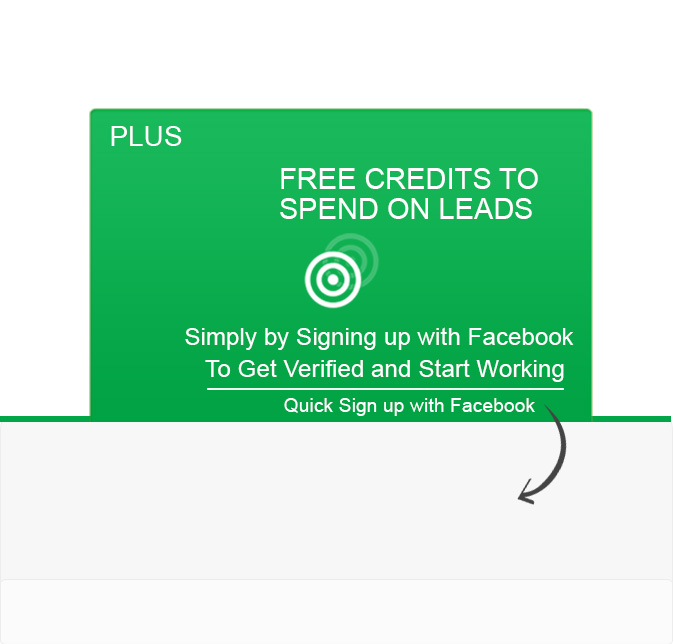
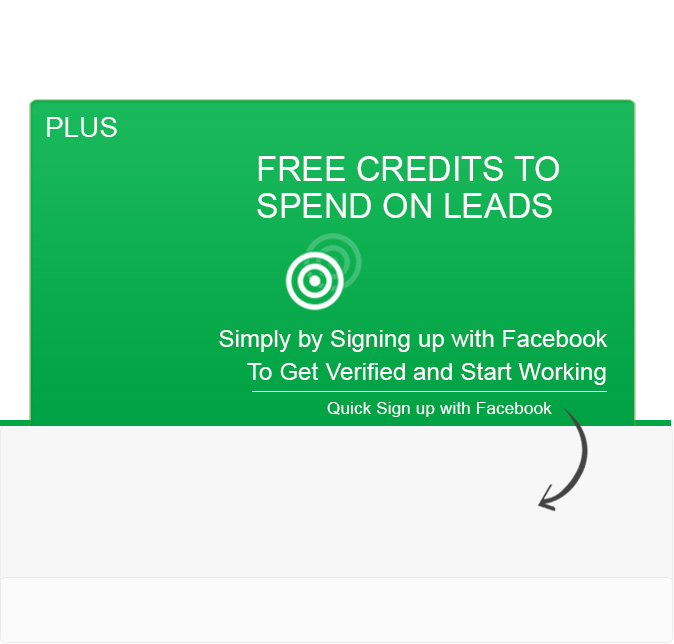
step 1 background image

Changed region(s): [[0.0, 0.1553, 0.997, 0.8075]]

diff --git a/css/signup.css b/css/signup.css
@@ -141,9 +141,9 @@ html.signup2 .input {
 .step1 .greenContent {	
 	position: absolute;
 	color: #FFFFFF;
-	top: 24%;
+	top: 22%;
 	/*width: 318px;*/
-	left: 16%;
+	left: 9%;
 }
 
 .step1 .greenContent .text1 {	

diff --git a/css/signup_media_queries.css b/css/signup_media_queries.css
@@ -617,6 +617,9 @@
 }
 
 @media screen and (max-width: 480px) {
+	.step1 .greenContent {
+		top: 23%;
+	}
 	.step1 .greenContent .line2 .price {
 		font-size: 28px;
 	}
